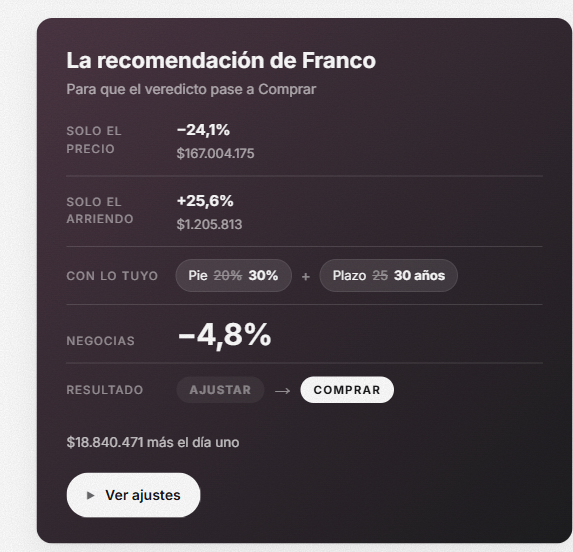
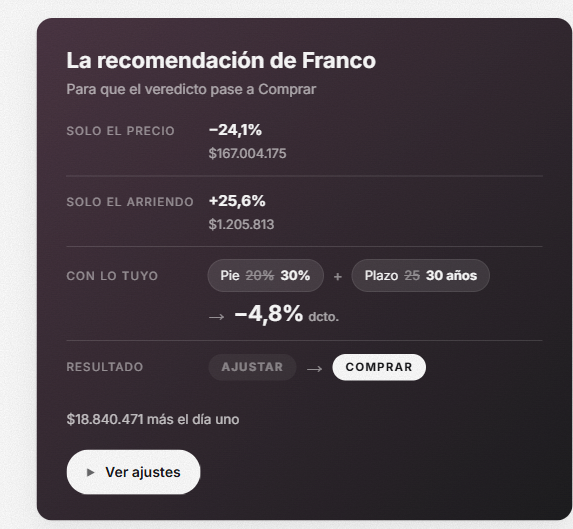
fix(informe): el descuento se pliega dentro de «Con lo tuyo» y muere la fila «Negocias»
Con las palancas solas arriba, la columna de rótulos se lee entera como una lista de
CAMINOS — y «Negocias» quedaba adentro pareciendo un cuarto camino cuando es parte del
mix. Era el rótulo del molde anterior, cuando el mix iba solo y la ecuación tenía que
partirlo en dos pasos.

Plegado, cada fila de la columna es un camino y ninguno se parte:

  SOLO EL PRECIO     −24,1%   $167.004.175
  SOLO EL ARRIENDO   +25,6%   $1.205.813
  CON LO TUYO        [Pie 20% 30%] + [Plazo 25 30 años] → −4,8% dcto.
  RESULTADO          AJUSTAR → COMPRAR

El descuento cierra la fila y no la abre: es la parte del mix que se le pide a un
tercero, así que va DESPUÉS de lo que pone el lector, detrás de su flecha. Baja de 30 a
22 px por la misma razón por la que no subía de 30 antes — en una fila compartida, a 30
se come los chips que tiene al lado.

LA COLUMNA DE RÓTULOS pasa de 96 a 128 px. Dejaron de ser de una palabra cuando entraron
las alternativas, y «Solo el arriendo» envolvía en dos líneas. Medido en el DOM: a 128 los
cuatro rótulos entran en una sola línea a 700 px (17 px de alto cada uno, una línea). En
móvil se deja envolver a propósito: a 390 el ancho se lo tiene que llevar el valor.

La fila «Resultado» se conserva —es el destino común de los tres caminos, por eso va
última y sin chip—. Al plegar estuve a punto de perderla: el reemplazo se comió las tres
filas del molde viejo y hubo que reponerla.
[…]

diff --git a/scripts/eval/golden/recomendacion-rediseno-catch-test.ts b/scripts/eval/golden/recomendacion-rediseno-catch-test.ts
@@ -125,13 +125,19 @@ for (const m of REC.matchAll(/([^{}]+)\{([^{}]*)\}/g)) {
 {
   const fila = reglaDe(".doc-r2 .rec-row", REC);
   if (!fila) F("5 · no existe la fila de la ecuación");
-  else if (!/grid-template-columns:\s*96px\s+1fr/.test(fila)) {
-    F("5 · el rótulo de la ecuación dejó de ser de 96 px fijos. Con «auto» cada fila alinea su valor en un sitio distinto y la columna de valores deja de leerse como columna.");
+  // 128 y no 96: los rótulos dejaron de ser de una palabra cuando entraron las
+  // alternativas —«Solo el arriendo» es el más largo— y a 96 envolvían en dos líneas.
+  // Medido: a 128 los cuatro entran en una sola línea a 700 px.
+  else if (!/grid-template-columns:\s*128px\s+1fr/.test(fila)) {
+    F("5 · el rótulo de la ecuación dejó de ser de 128 px fijos. Con «auto» cada fila alinea su valor en un sitio distinto y la columna de valores deja de leerse como columna; con menos, «Solo el arriendo» envuelve.");
   }
   const movil = REC.slice(REC.indexOf("max-width: 767px"));
   if (!/grid-template-columns:\s*78px\s+1fr/.test(movil)) F("5 · el rótulo no baja a 78 px en móvil");
+  // El descuento vive PLEGADO dentro de «Con lo tuyo», compartiendo fila con los chips,
+  // así que baja de 30 a 22: a 30 se comía los chips que tiene al lado.
   const dcto = reglaDe(".doc-r2 .rec-dcto", REC);
-  if (dcto && !/font-size:\s*30px/.test(dcto)) F("5 · el descuento dejó de ir a 30 px: más grande compite con la cifra del hero");
+  if (dcto && !/font-size:\s*22px/.test(dcto)) F("5 · el descuento dejó de ir a 22 px. Plegado en la fila del mix comparte ancho con los chips; a 30 se los come.");
+  if (!reglaDe(".doc-r2 .rec-dcto-g", REC)) F("5 · el descuento perdió su grupo en línea: plegado va junto a los chips, no como bloque aparte");
 }
 
 // ── 6 · los capítulos: sin romano, con foco ───────────────────────────────
@@ -253,17 +259,21 @@ for (const m of REC.matchAll(/([^{}]+)\{([^{}]*)\}/g)) {
       F(`12 · falta o cambió el rótulo de alternativa de «${palanca}»: se esperaba «${rotulo}». El artículo va escrito y no derivado — «tarifa» y «gestión» son femeninas.`);
     }
   }
-  // Y el tachado no repite lo que la fila «Solo el precio» ya dice.
-  if (!/mix\.contraste && solas\.length === 0/.test(BLO)) {
-    F("12 · el tachado del contraste volvió a dibujarse junto a las filas solas: repetiría la misma cifra dos veces en la misma card");
+  // «Negocias» NO VUELVE. Era el rótulo del molde anterior, cuando el mix iba solo y la
+  // ecuación lo partía en dos pasos. Con las alternativas arriba, la columna de rótulos
+  // se lee entera como una lista de CAMINOS y «Negocias» quedaba adentro pareciendo un
+  // cuarto camino cuando es parte del mix. El descuento va plegado en «Con lo tuyo».
+  if (/>Negocias</.test(BLO)) {
+    F("12 · volvió la fila «Negocias». El descuento es parte de «Con lo tuyo», no un camino aparte: plegado, cada fila de la columna es un camino.");
   }
+  if (!/rec-dcto-g/.test(BLO)) F("12 · el descuento dejó de ir plegado dentro de la fila del mix");
 }
 
 /** Tier para el runner: cada invariante roto es una falla dura. */
 export function runRecomendacionRedisenoTier(): { hard: number } {
   console.log("\n─── TIER RECOMENDACIÓN-REDISEÑO (contrato §5 y §7 · 0 tokens) ───");
   if (fallas.length === 0) {
-    console.log("  ✓ VERDE — el fondo por veredicto solo en la recomendación, el filtro en su capa, el costo del día uno con el mix, la card sin firma y con CTA blanco, el rótulo a 96/78 px, los capítulos sin romano y con foco, la puerta intacta detrás del interruptor, la recomendación apuntando SIEMPRE a Comprar, la fila de capítulo sin bajada y con la cifra apellidada, «Resultado» también sin mix, y las palancas solas junto al mix como alternativas");
+    console.log("  ✓ VERDE — el fondo por veredicto solo en la recomendación, el filtro en su capa, el costo del día uno con el mix, la card sin firma y con CTA blanco, el rótulo a 128/78 px, los capítulos sin romano y con foco, la puerta intacta detrás del interruptor, la recomendación apuntando SIEMPRE a Comprar, la fila de capítulo sin bajada y con la cifra apellidada, «Resultado» también sin mix, y las palancas solas junto al mix como alternativas");
   } else {
     for (const f of fallas) console.log(`  ✗ ${f}`);
   }

diff --git a/src/components/analysis/shared/LoQueHariaYoBloque.tsx b/src/components/analysis/shared/LoQueHariaYoBloque.tsx
@@ -192,16 +192,14 @@ function EcuacionRecomendacion({ bloque, veredicto }: { bloque: BloqueLoQueHaria
           </span>
         </div>
       ))}
-      {(mix.movimiento.pie || mix.movimiento.plazo) && (
+      {/* UNA SOLA FILA: los chips Y el descuento. «Negocias» era un rótulo del molde
+          anterior, cuando el mix iba solo y la ecuación tenía que partirlo en dos pasos.
+          Con las palancas solas arriba, la columna de rótulos se lee entera como una
+          lista de CAMINOS, y «Negocias» quedaba adentro pareciendo un cuarto camino
+          cuando es parte de éste. Plegado, cada fila es un camino y ninguno se parte. */}
+      {(mix.movimiento.pie || mix.movimiento.plazo || mix.descuento || mix.sinDescuento) && (
         <div className="rec-row">
-          {/* «Con lo tuyo» y no «Cambias»: el pie y el plazo son lo único que el lector
-              mueve sin pedirle permiso a nadie, y es lo que distingue este camino de los
-              de arriba, que dependen del vendedor o del mercado. */}
           <span className="rec-k">Con lo tuyo</span>
-          {/* EL «+» VIAJA CON EL CHIP DE LA IZQUIERDA. Suelto entre dos chips, a 390 px
-              el salto de línea cae justo antes y el signo queda solo arriba del segundo
-              chip, como si sumara con la nada. Envuelto con el primero en un grupo que
-              no rompe, el corte pasa DESPUÉS del signo. */}
           <span className="rec-v rec-chips">
             {mix.movimiento.pie && (
               <span className="rec-chip-g">
@@ -216,30 +214,21 @@ function EcuacionRecomendacion({ bloque, veredicto }: { bloque: BloqueLoQueHaria
                 Plazo <s>{mix.movimiento.plazo.de}</s> <b>{mix.movimiento.plazo.a} años</b>
               </span>
             )}
+            {/* El descuento cierra la fila: es la parte del mix que se le pide a un
+                tercero, así que va DESPUÉS de lo que pone el lector y con su flecha. */}
+            {(mix.descuento || mix.sinDescuento) && (
+              <span className="rec-dcto-g">
+                {(mix.movimiento.pie || mix.movimiento.plazo) && <i className="rec-fl">→</i>}
+                {mix.descuento
+                  ? <b className="rec-dcto">{mix.descuento} <small>dcto.</small></b>
+                  : <b className="rec-sin">{mix.sinDescuento}</b>}
+              </span>
+            )}
           </span>
         </div>
       )}
-      <div className="rec-row">
-        <span className="rec-k">Negocias</span>
-        <span className="rec-v">
-          {mix.descuento ? <b className="rec-dcto">{mix.descuento}</b> : <b className="rec-sin">{mix.sinDescuento}</b>}
-          {/* EL TACHADO NO REPITE LA CIFRA GRANDE. `contraste.a` es, casi siempre, el
-              mismo descuento que ya se lee arriba a 30 px: dibujar «−24,1% → −4,8%»
-              debajo de un «−4,8%» enorme decía dos veces lo mismo (medido en el DOM).
-              Lo que sí informa es el `de`: cuánto haría falta negociando SOLO el
-              precio, que es el nombre que el motor le da al campo
-              (`descuentoSoloPrecioPct`). Cuando los dos números difieren, la flecha
-              vuelve porque entonces sí hay dos cosas que comparar. */}
-          {/* Y si «Solo el precio» ya está como fila propia, el tachado repetiría esa
-              misma cifra dos veces en la misma card. Con la fila arriba, sobra. */}
-          {mix.contraste && solas.length === 0 && (
-            <em className="rec-contra">
-              <s>{mix.contraste.de}</s>{" "}
-              {mix.contraste.a === mix.descuento ? "solo con el precio" : <>→ <b>{mix.contraste.a}</b></>}
-            </em>
-          )}
-        </span>
-      </div>
+      {/* RESULTADO: adónde llegan TODOS los caminos de arriba. Por eso va último y sin
+          chip: no es una alternativa más, es el destino común. */}
       <div className="rec-row">
         <span className="rec-k">Resultado</span>
         <span className="rec-v rec-trans">

diff --git a/src/components/analysis/portada/PortadaInforme.tsx b/src/components/analysis/portada/PortadaInforme.tsx
@@ -735,8 +735,12 @@ export function DocTokens() {
 
       /* — LA ECUACIÓN — */
       .doc-r2 .rec-eq{margin:0 0 20px}
+      /* LA COLUMNA DE RÓTULOS pasa de 96 a 128 px. Los rótulos dejaron de ser de una
+         palabra —«Solo el arriendo» es el más largo— y a 96 envolvía en dos líneas. 128
+         es lo medido para que entre en una sola a 700. En móvil se deja envolver: a 390
+         el ancho se lo lleva el valor, que es lo que hay que leer. */
       .doc-r2 .rec-row{
-        display:grid;grid-template-columns:96px 1fr;gap:14px;align-items:baseline;
+        display:grid;grid-template-columns:128px 1fr;gap:14px;align-items:baseline;
         padding:13px 0;border-top:1px solid rgba(255,255,255,.14)}
       .doc-r2 .rec-row:first-child{border-top:none;padding-top:0}
       .doc-r2 .rec-k{
@@ -761,11 +765,16 @@ export function DocTokens() {
       .doc-r2 .rec-chip-g{display:inline-flex;align-items:center;gap:10px;white-space:nowrap}
       .doc-r2 .rec-mas{font-style:normal;opacity:.5;font-size:15px}
 
-      /* el descuento: 30 px y no más — compite con la cifra del hero */
+      /* EL DESCUENTO VIVE DENTRO DE «Con lo tuyo», no en una fila propia. Plegado, así
+         que ya no es un bloque: va en línea con los chips, detrás de su flecha. Baja de
+         30 a 22 px por lo mismo que no subía de 30 antes — en una fila compartida, a 30
+         se come los chips que tiene al lado. */
+      .doc-r2 .rec-dcto-g{display:inline-flex;align-items:baseline;gap:9px;white-space:nowrap}
       .doc-r2 .rec-dcto{
-        font-family:var(--font-mono, ui-monospace);font-size:30px;font-weight:700;
-        line-height:1.05;letter-spacing:-.02em;display:block}
-      .doc-r2 .rec-sin{font-size:15px;font-weight:600;display:block}
+        font-family:var(--font-mono, ui-monospace);font-size:22px;font-weight:700;
+        line-height:1.1;letter-spacing:-.02em}
+      .doc-r2 .rec-dcto small{font-size:12.5px;font-weight:500;opacity:.62;letter-spacing:normal}
+      .doc-r2 .rec-sin{font-size:14px;font-weight:600}
       .doc-r2 .rec-contra{
         display:block;font-style:normal;font-family:var(--font-mono, ui-monospace);
         font-size:13px;opacity:.72;margin-top:5px}
